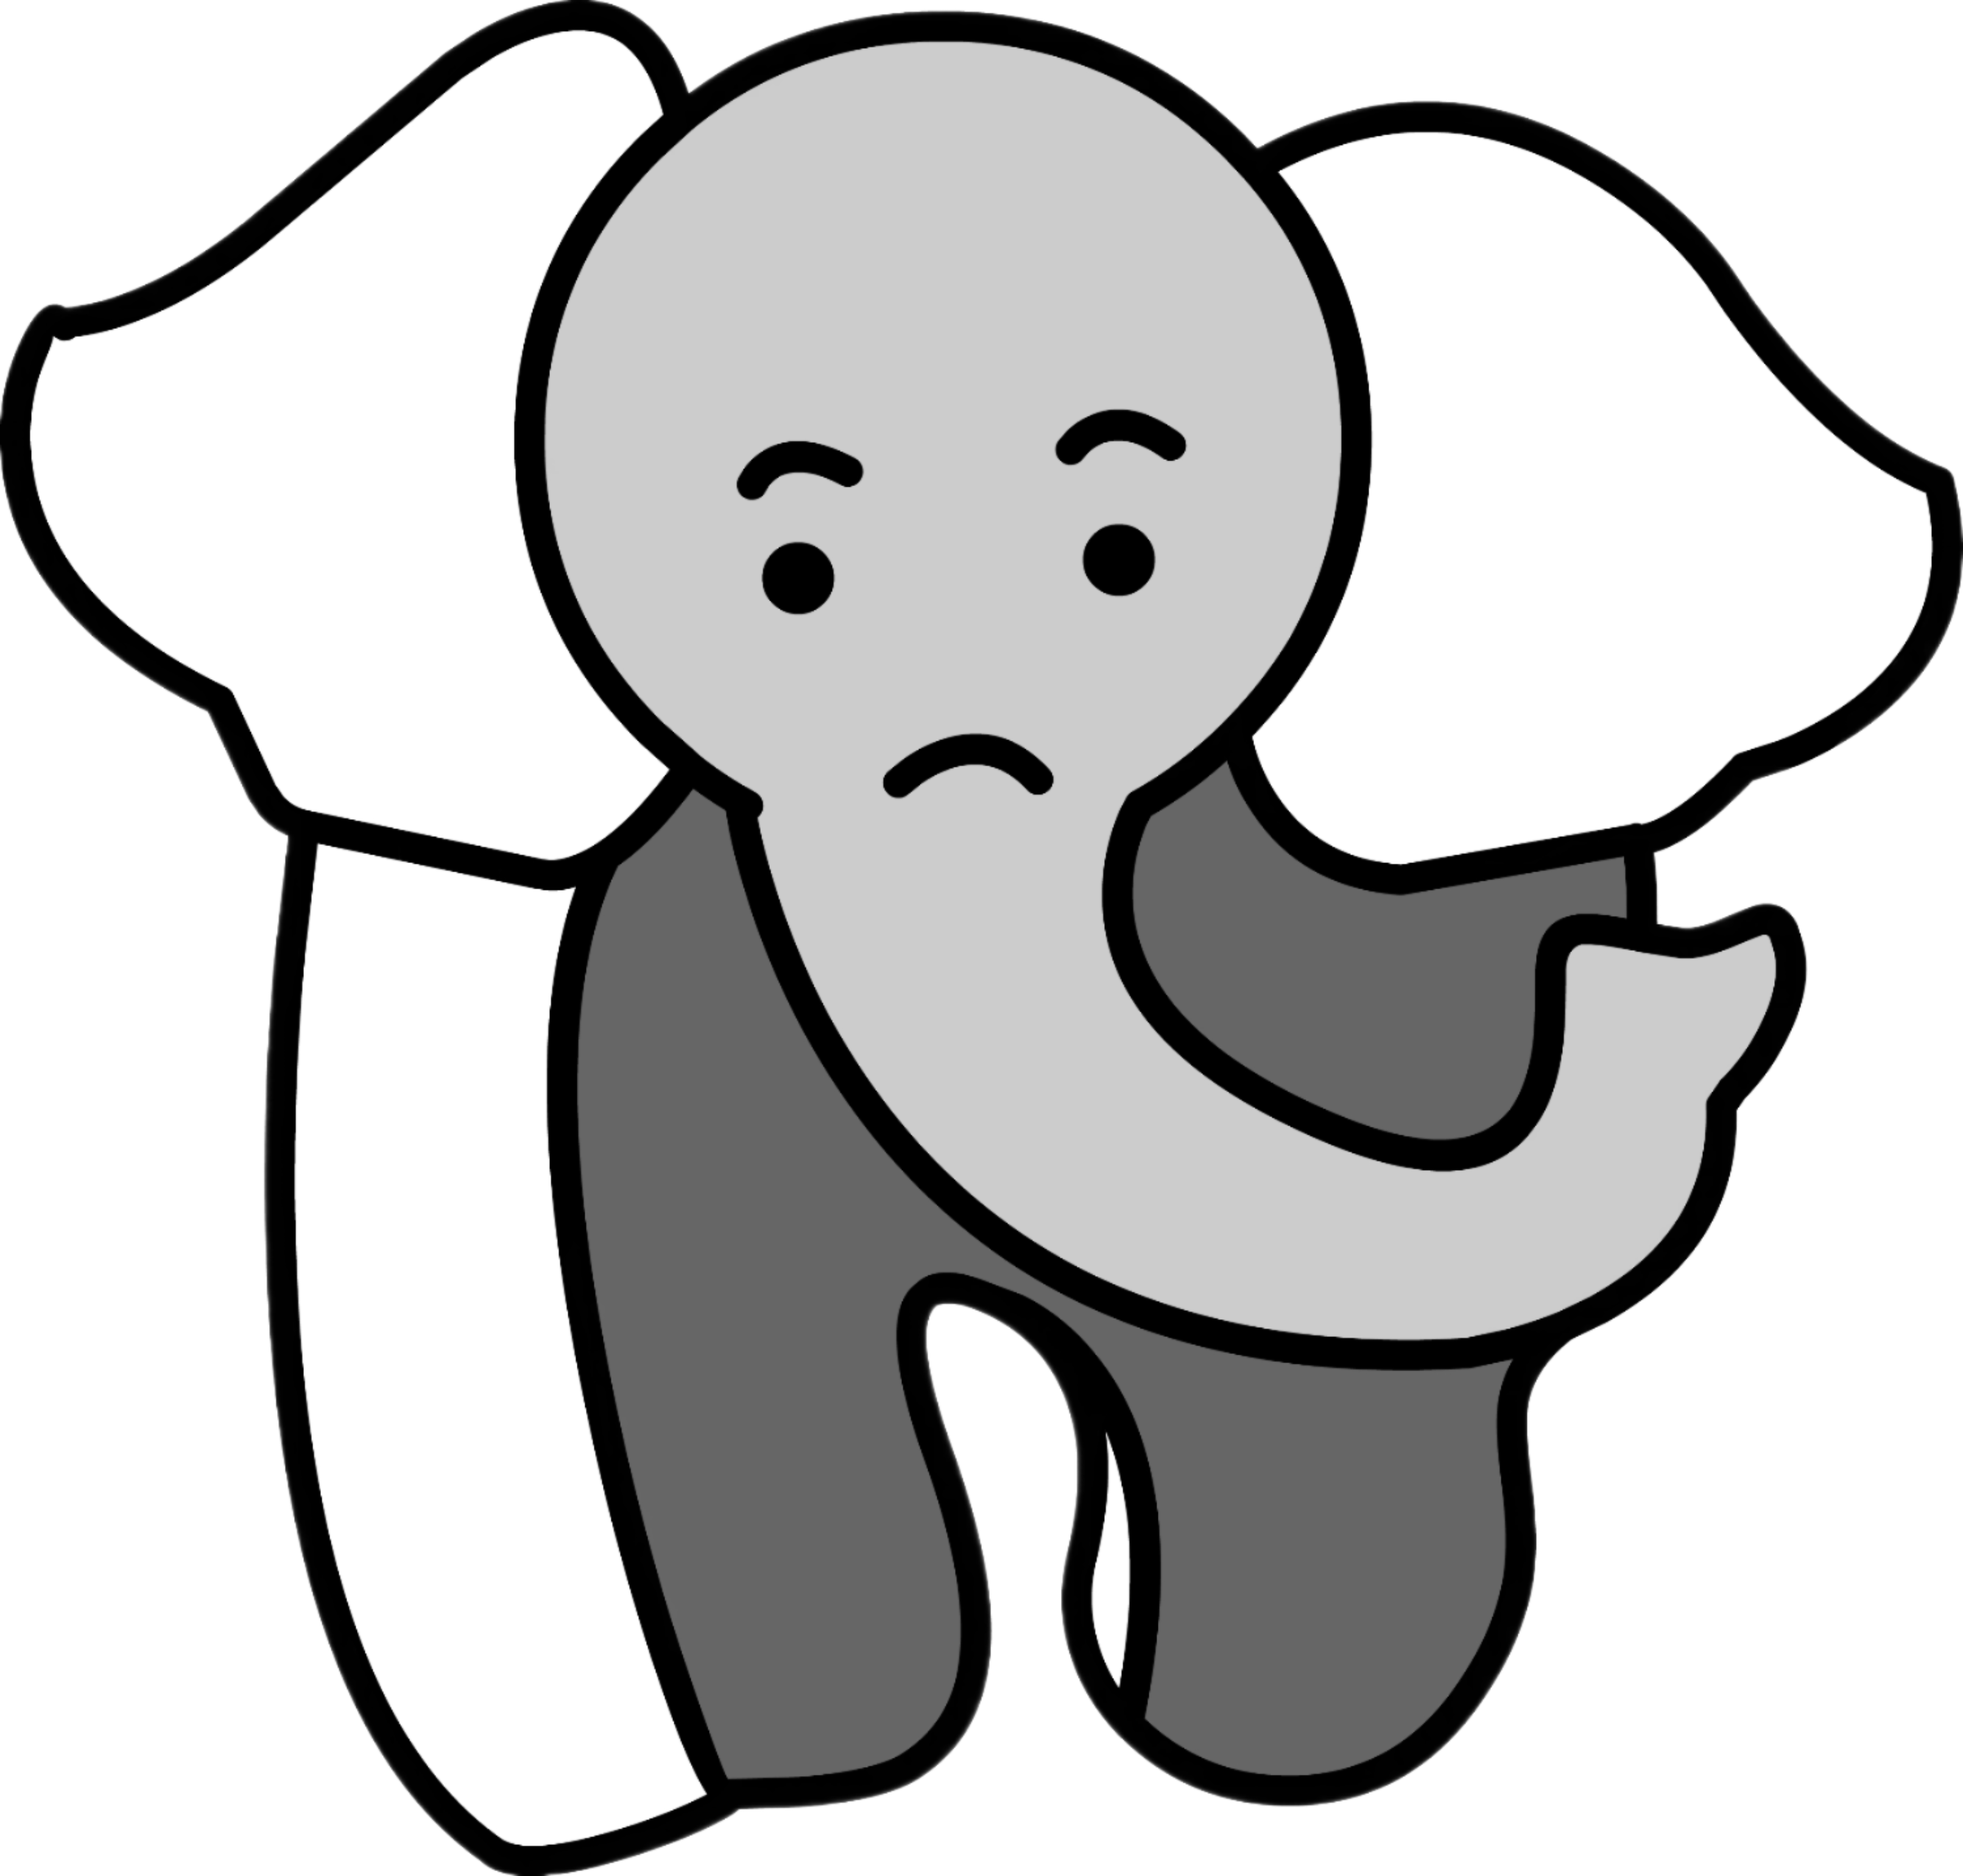
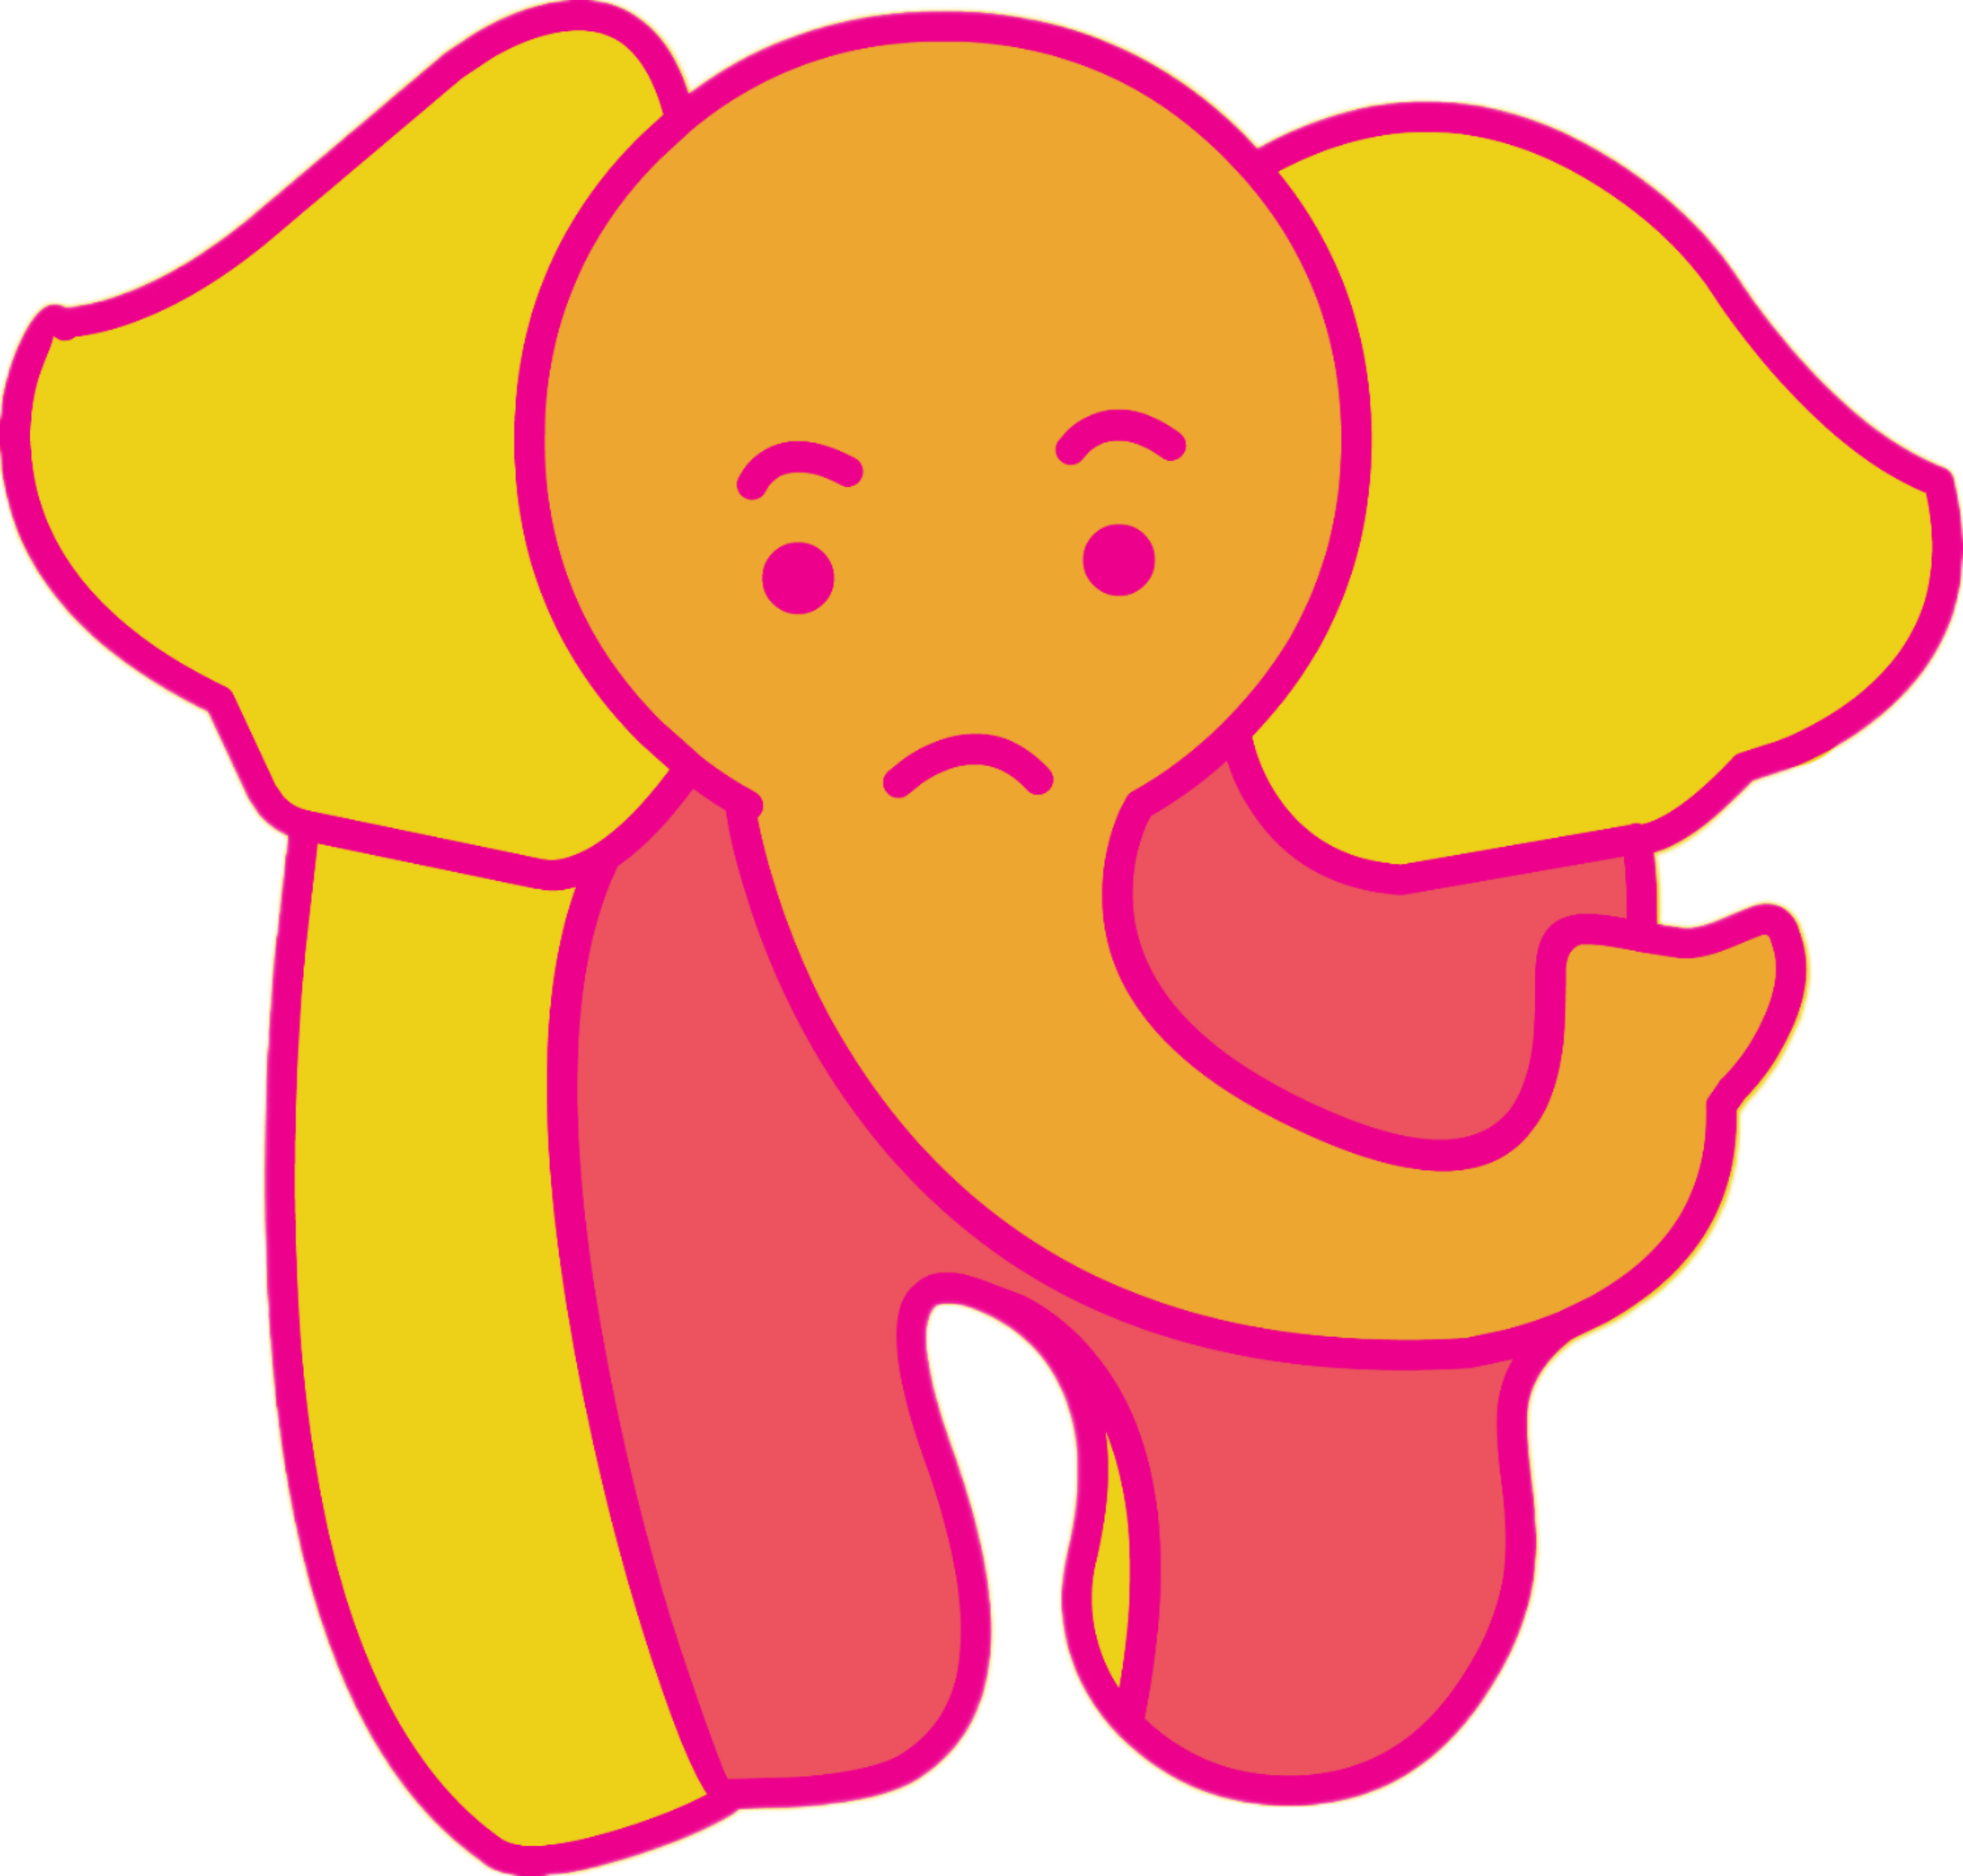
a

diff --git a/www/src/css/custom.css b/www/src/css/custom.css
@@ -5,33 +5,28 @@
  */
 
 /* You can override the default Infima variables here. */
-/*
 :root {
-  --ifm-color-primary-darkest: #666666;
-  --ifm-color-primary-darker: #797979;
-  --ifm-color-primary-dark: #8C8C8C;
-  --ifm-color-primary: #9F9F9F;
-  --ifm-color-primary-light: #B3B3B3;
-  --ifm-color-primary-lighter: #C6C6C6;
-  --ifm-color-primary-lightest: #D9D9D9;
-
+  --ifm-color-primary: #ec008c;
+  --ifm-color-primary-dark: #d4007e;
+  --ifm-color-primary-darker: #c90077;
+  --ifm-color-primary-darkest: #a50062;
+  --ifm-color-primary-light: #ff0599;
+  --ifm-color-primary-lighter: #ff109e;
+  --ifm-color-primary-lightest: #ff34ac;
   --ifm-code-font-size: 95%;
   --docusaurus-highlighted-code-line-bg: rgba(0, 0, 0, 0.1);
 }
-*/
 /* For readability concerns, you should choose a lighter palette in dark mode. */
-/*
 [data-theme='dark'] {
-  --ifm-color-primary-darkest: #E3E3E3;
-  --ifm-color-primary-darker: #E6E6E6;
-  --ifm-color-primary-dark: #EAEAEA;
-  --ifm-color-primary: #EDEDED;
-  --ifm-color-primary-light: #F1F1F1;
-  --ifm-color-primary-lighter: #F4F4F4;
-  --ifm-color-primary-lightest: #F8F8F8;
+  --ifm-color-primary: #edd018;
+  --ifm-color-primary-dark: #dabf11;
+  --ifm-color-primary-darker: #ceb410;
+  --ifm-color-primary-darkest: #a9940d;
+  --ifm-color-primary-light: #efd530;
+  --ifm-color-primary-lighter: #f0d73c;
+  --ifm-color-primary-lightest: #f3df61;
   --docusaurus-highlighted-code-line-bg: rgba(0, 0, 0, 0.3);
 }
-*/
 
 .header-github-link:hover {
   opacity: 0.6;

diff --git a/www/src/pages/index.module.css b/www/src/pages/index.module.css
@@ -8,7 +8,8 @@
   text-align: center;
   position: relative;
   overflow: hidden;
-  
+  background-image: url('https://raw.githubusercontent.com/renaudjmathieu/my-website/main/www/static/img/text_covers_undraw_plus_coverozlanvopqs9jvu2c.png');
+  background-size:100% 100%;
 }
 
 @media screen and (max-width: 996px) {
